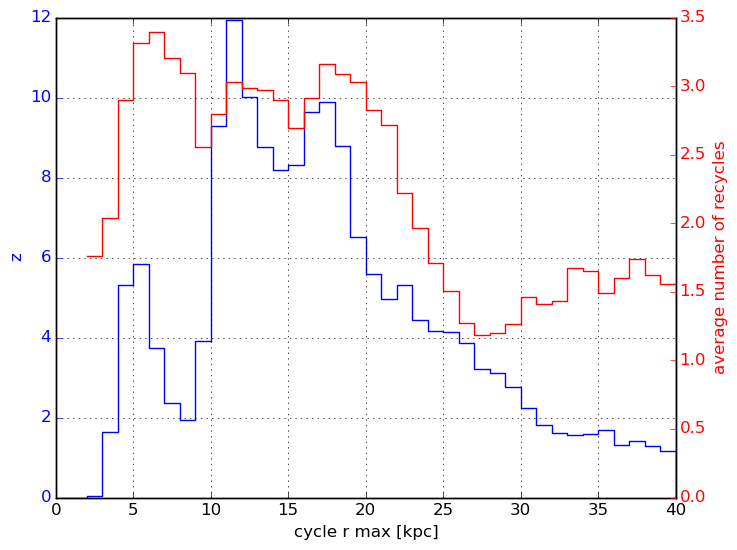
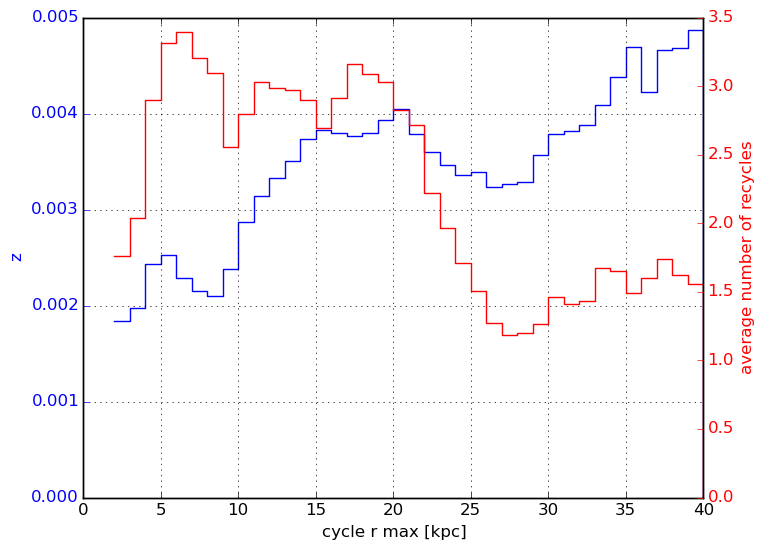
set the statistic to mean from sum

diff --git a/1/nrc_vs_r.py b/1/nrc_vs_r.py
@@ -6,7 +6,7 @@ import utils
 
 filename = __file__
 
-type = ('disc-Uebler', 'disc', 'ball')[2]
+type = ('disc-Uebler', 'disc', 'ball')[0]
 s, h, g = pg.prepare_zoom('/ptmp/mpa/naab/REFINED/M0977/SF_X/4x-2phase/out/snap_M0977_4x_470', gas_trace='/ptmp/mpa/naab/REFINED/M0977/SF_X/4x-2phase/gastrace_M0977_4x_%s_070_470.dat' % (type))
 
 metals_ejection = [item[item > 0] for item in s.gas['metals_at_ejection'][s.gas['num_recycled'] > -1] / s.gas['mass_at_ejection'][s.gas['num_recycled'] > -1]]
@@ -20,7 +20,7 @@ for i, particle in enumerate(cycle_r_max):
         extended_nor.append(number_of_recycles[i])
 
 average_nor, edges_nor, count_nor = stats.binned_statistic(np.concatenate(cycle_r_max), extended_nor, statistic='mean', bins=np.linspace(0, 40, 41))
-average_z, edges, count = stats.binned_statistic(np.concatenate(cycle_r_max), np.concatenate(metals_ejection), statistic='sum', bins=np.linspace(0, 40, 41))
+average_z, edges, count = stats.binned_statistic(np.concatenate(cycle_r_max), np.concatenate(metals_ejection), statistic='mean', bins=np.linspace(0, 40, 41))
 
 edges, average_z = utils.prepare_step(edges, average_z)
 edges_nor, average_nor = utils.prepare_step(edges_nor, average_nor)
